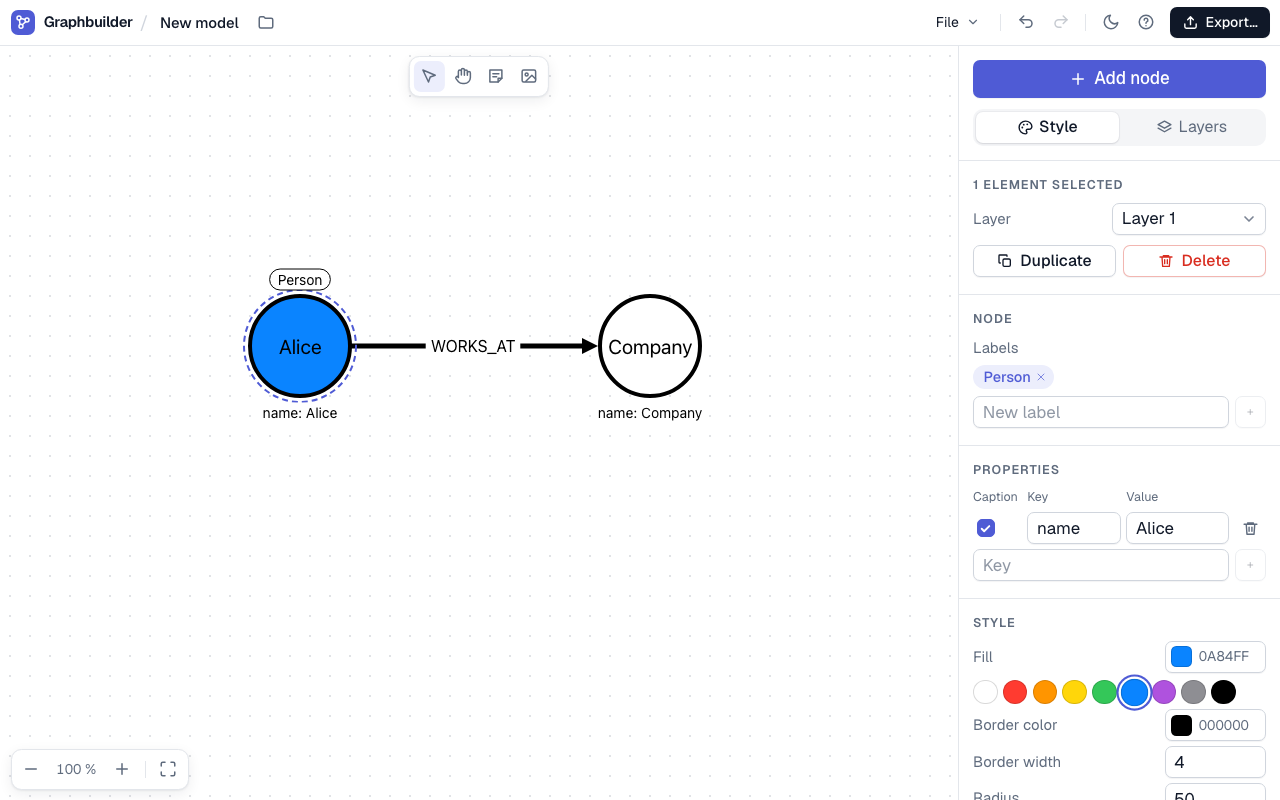
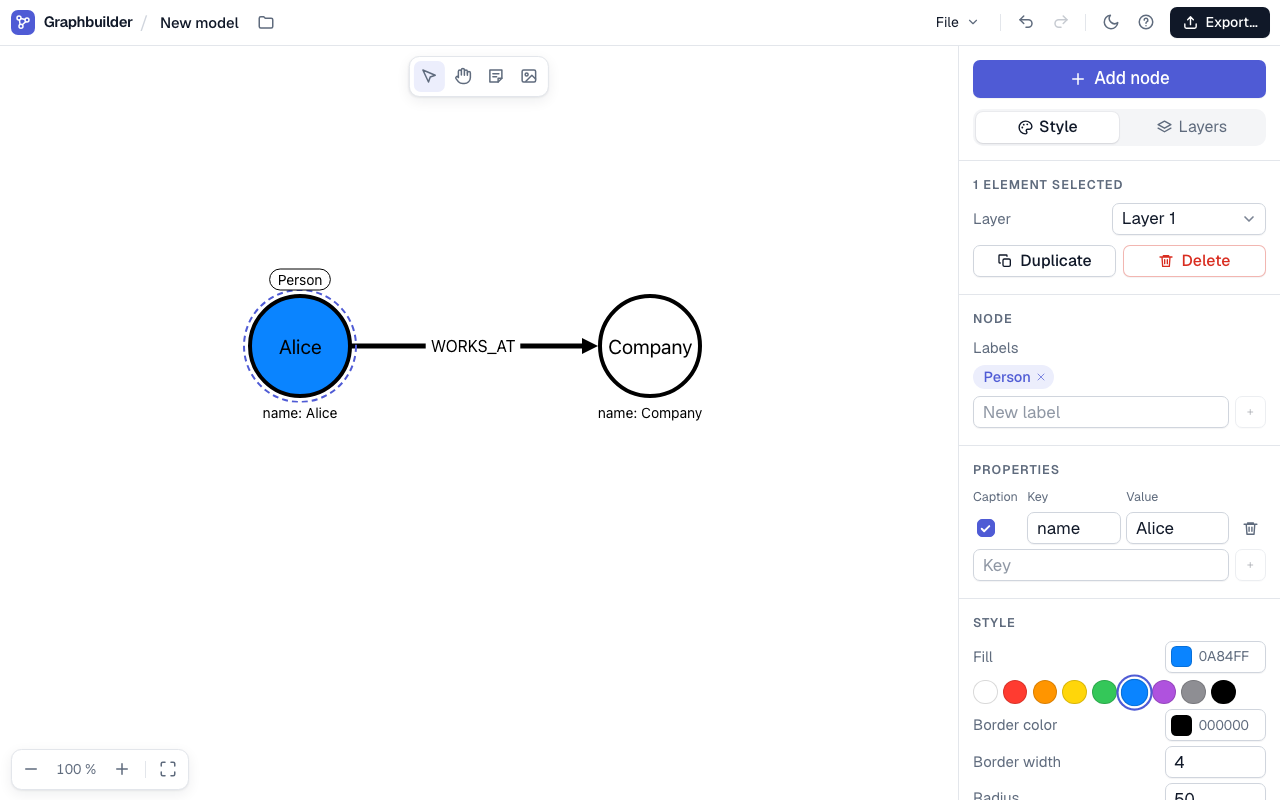
Remove the dot grid from the canvas background

diff --git a/src/canvas/Canvas.tsx b/src/canvas/Canvas.tsx
@@ -111,8 +111,6 @@ function resizeBox(start: Box, handle: Handle, delta: Point, aspect: number | nu
   return { x, y, w, h };
 }
 
-/** Avstånd mellan prickarna i bakgrundsrutnätet vid 100 % zoom. */
-const GRID_SPACING = 20;
 export function Canvas() {
   const svgRef = useRef<SVGSVGElement>(null);
   const size = useElementSize(svgRef);
@@ -535,7 +533,6 @@ export function Canvas() {
       >
         <title>{doc.name}</title>
         <rect width="100%" height="100%" fill={doc.style.background} />
-        <DotGrid x={viewport.x} y={viewport.y} zoom={viewport.zoom} />
         <g transform={`translate(${viewport.x} ${viewport.y}) scale(${viewport.zoom})`}>
           <Scene
             doc={doc}
@@ -565,36 +562,6 @@ export function Canvas() {
         </div>
       )}
     </div>
-  );
-}
-
-/** Prickrutnät som hjälp för ögat; följer panorering och zoom men ingår aldrig i exporten. */
-function DotGrid({ x, y, zoom }: { x: number; y: number; zoom: number }) {
-  let spacing = GRID_SPACING * zoom;
-  while (spacing < GRID_SPACING / 2) spacing *= 2;
-  while (spacing > GRID_SPACING * 2) spacing /= 2;
-  return (
-    <>
-      <defs>
-        <pattern
-          id="gb-dot-grid"
-          patternUnits="userSpaceOnUse"
-          x={x}
-          y={y}
-          width={spacing}
-          height={spacing}
-        >
-          <circle cx={spacing / 2} cy={spacing / 2} r={1} fill="rgb(128 136 150 / 0.32)" />
-        </pattern>
-      </defs>
-      <rect
-        width="100%"
-        height="100%"
-        fill="url(#gb-dot-grid)"
-        pointerEvents="none"
-        data-testid="dot-grid"
-      />
-    </>
   );
 }
 

diff --git a/tests/e2e/design.spec.ts b/tests/e2e/design.spec.ts
@@ -1,5 +1,5 @@
 import { expect, test } from "@playwright/test";
-import { createNode, freshApp } from "./helpers";
+import { freshApp } from "./helpers";
 
 test.describe("utseende", () => {
   test("verktyg och zoom ligger som flytande listor ovanpå ritytan", async ({ page }) => {
@@ -22,24 +22,9 @@ test.describe("utseende", () => {
     );
   });
 
-  test("prickrutnätet följer när ytan flyttas och kommer inte med i exporten", async ({ page }) => {
+  test("ritytan har ingen prickad bakgrund", async ({ page }) => {
     await freshApp(page);
-    const pattern = page.locator("#gb-dot-grid");
-    await expect(pattern).toHaveCount(1);
-    const before = Number(await pattern.getAttribute("x"));
-    const box = await page.getByTestId("canvas").boundingBox();
-    if (!box) throw new Error("canvas saknas");
-    await page.mouse.move(box.x + 400, box.y + 400);
-    await page.mouse.down();
-    await page.mouse.move(box.x + 470, box.y + 430, { steps: 5 });
-    await page.mouse.up();
-    expect(Number(await pattern.getAttribute("x"))).toBeCloseTo(before + 70, 0);
-
-    await createNode(page, 300, 300, "Person");
-    await page.getByRole("button", { name: "Export…" }).last().click();
-    await page.getByRole("tab", { name: "SVG" }).click();
-    const preview = page.getByTestId("export-preview");
-    await expect(preview).toContainText("Person");
-    expect(await preview.innerHTML()).not.toContain("gb-dot-grid");
+    await expect(page.getByTestId("dot-grid")).toHaveCount(0);
+    await expect(page.locator("#gb-dot-grid")).toHaveCount(0);
   });
 });

diff --git a/CLAUDE.md b/CLAUDE.md
@@ -129,7 +129,7 @@ Chromium för Playwright finns i `/opt/pw-browsers`; kör aldrig `playwright ins
   text och exporten använder fortfarande `system-ui` (`CANVAS_FONT_FAMILY`). Verktygen och zoomen är
   flytande listor ovanpå ritytan (`src/canvas/CanvasToolbar.tsx`); övre listen har logga,
   modellnamn, File-menyn (ikoner + kortkommandon), ångra/gör om, tema, hjälp och Export.
-  Prickrutnätet (`DotGrid` i `Canvas.tsx`) ritas bara på ritytan, aldrig i exporten.
+  Ritytan har slät bakgrund: kunden vill inte ha prickar eller rutnät i bakgrunden.
 - **Färgval för noder och anteckningar** (`NODE_PALETTE`, `NOTE_COLORS` i `src/model/defaults.ts`)
   är klara grundfärger med stor inbördes skillnad. Kunden vill inte ha pastell eller dämpade toner.
 - **Tema:** appen startar alltid ljust, oberoende av datorns inställning. Mörkt läge slås på med

diff --git a/README.md b/README.md
@@ -28,7 +28,7 @@ updated automatically with every new version.
 - Export to JSON, Cypher (Neo4j `CREATE` statements), SVG and PNG, optionally visible layers only.
 - Light theme by default; a button in the top bar switches to dark mode.
 - Calm, tool-like interface: the tools (select, pan, note, image) float at the top of the canvas,
-  zoom controls at the bottom left, and a subtle dot grid follows panning and zoom (never exported).
+  zoom controls at the bottom left. The canvas background is plain, without a grid.
 
 ## Run locally
 
